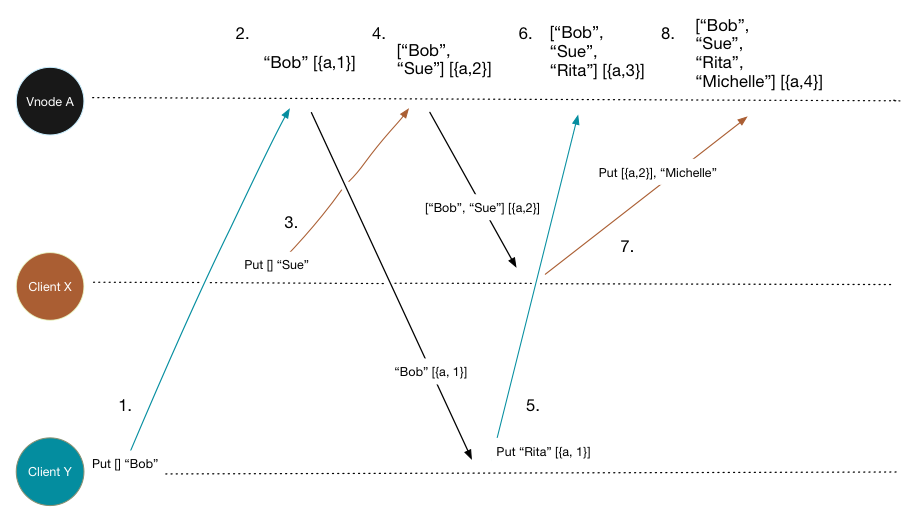
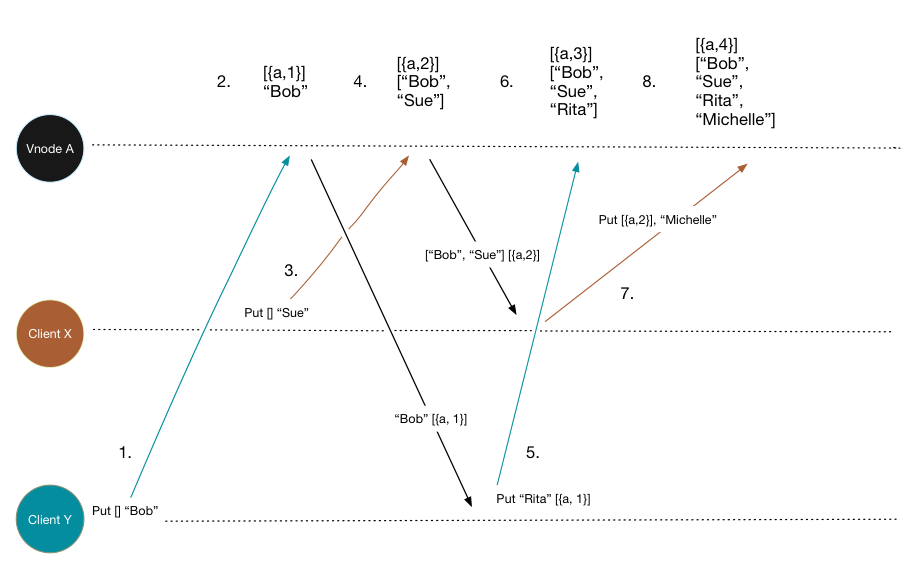
Re-run motivation example with DVV
Re-create the motivating sibling explosion example in full, but using
DVV to show that the issue is resolved using the DVV technique. Thanks
to Jon Meredith for suggesting this.

Also, chage the representation in those diagrams to Clock SibList from
SibList Clock.

diff --git a/2.dvv.md b/2.dvv.md
@@ -170,6 +170,13 @@ that Client Y did not mean to replace that value.
 Thanks to this mechanism, Dotted Version Vectors, or _DVV_ for short,
 a small increase in metadata storage fixes the Sibling Explosion bug.
 
+All that remains is to look at the initial example of sibling
+explosion again, and see that with Dotted Version Vectors, Riak
+correctly captures only genuinely concurrent operations, and stores
+only those values that are actual siblings.
+
+![No Explosion: Just Real Siblings](no-sib-ex.png "No Explosion: Just Real Siblings")
+
 ### Why "Dots?"
 
 Why that word "Dots?" If we think about Step 6 again, in the Dotted
@@ -189,7 +196,7 @@ the simpler explanation is good enough.
 
 ## Further Material
 
-This post only covers how Dotted Version Vectors are implemented in
+This post only covers Dotted Version Vectors as implemented in
 Riak. By necessity we simply added the dot-per-sibling to object
 metadata. Dotted Version Vectors in Riak are fully backwards
 compatible with previous versions of Riak, and they can be switched on
